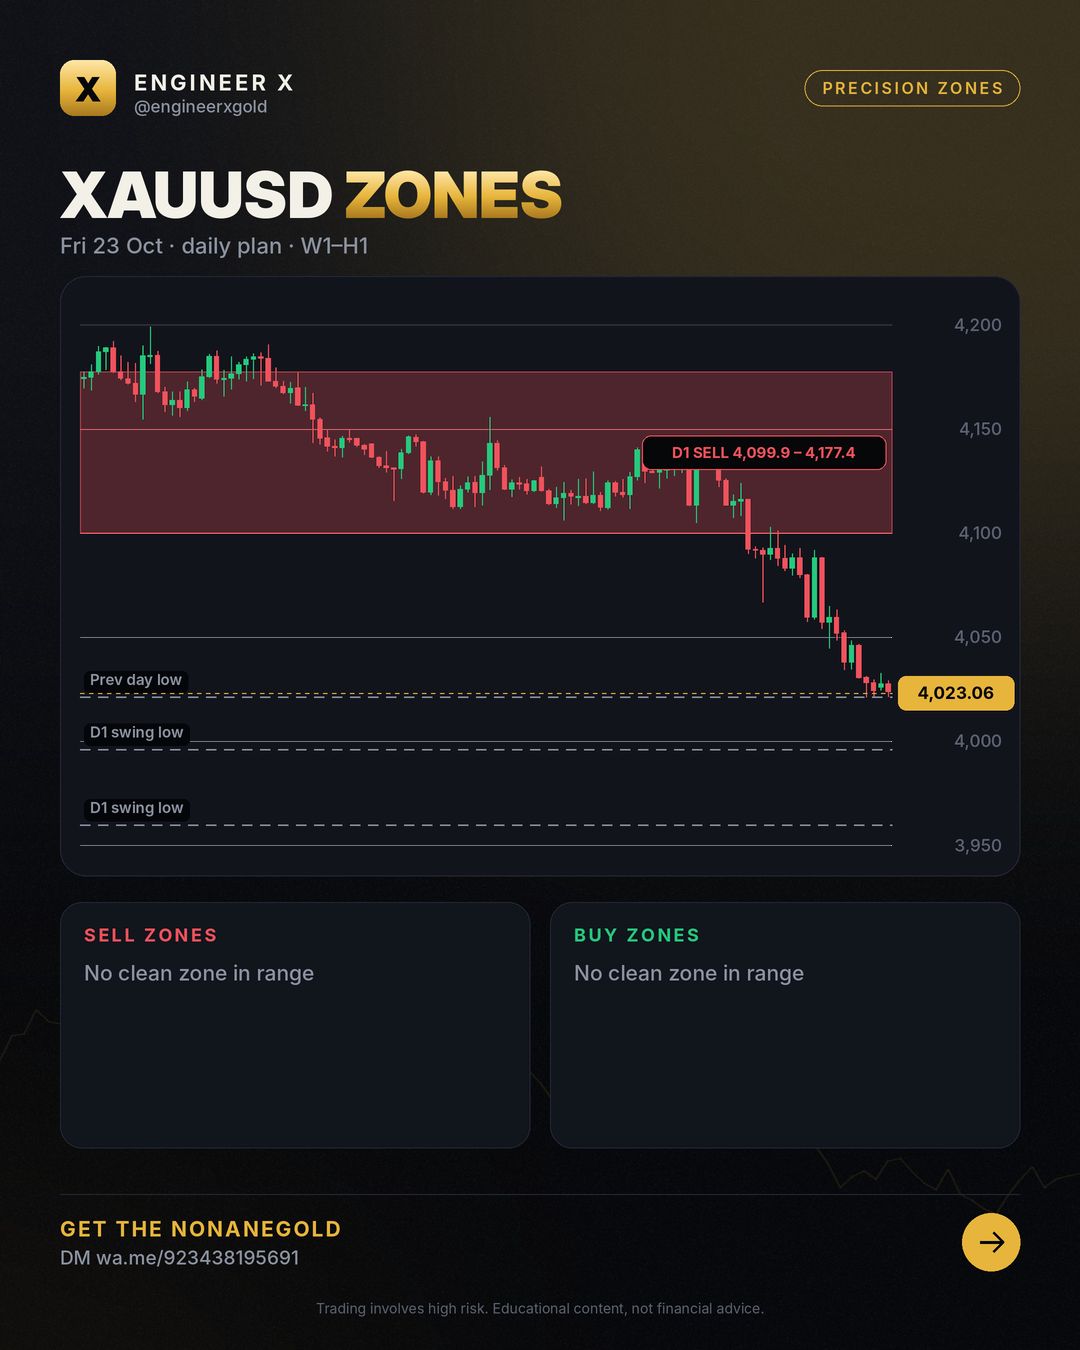
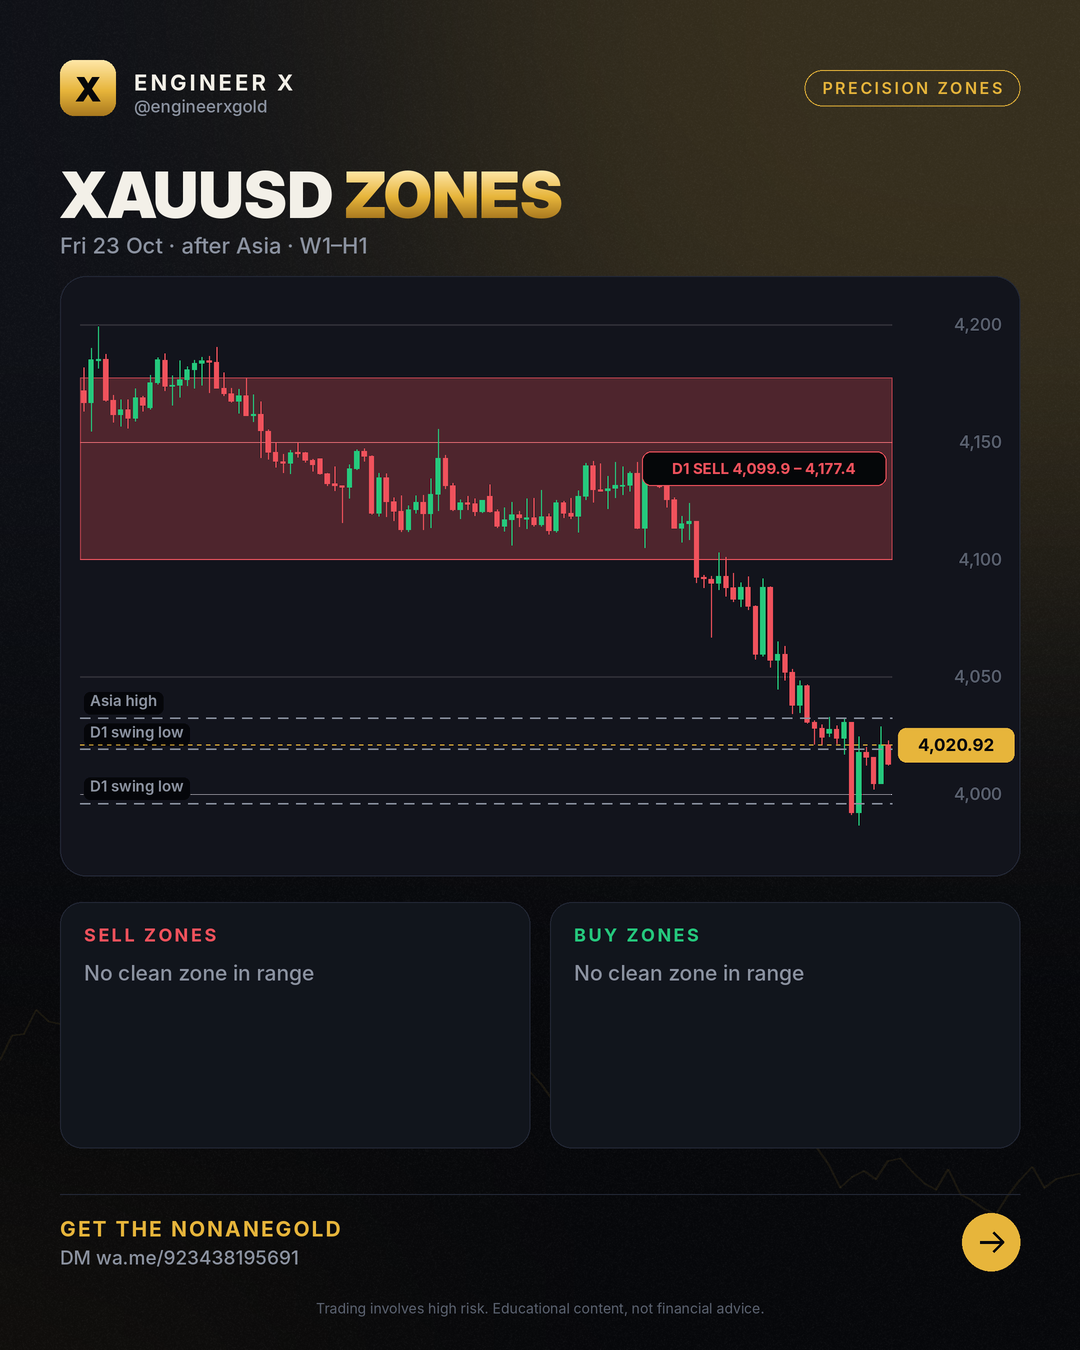
zones 2026-10-23 Fri 23 Oct · after Asia · W1–H1

diff --git a/zones/2026-10-23/index.html b/zones/2026-10-23/index.html
@@ -4,7 +4,7 @@
 <meta charset="utf-8">
 <meta name="viewport" content="width=device-width,initial-scale=1">
 <title>Gold Support Resistance – 23 Oct 2026 (W1–H1)</title>
-<meta name="description" content="XAUUSD buy and sell zones for 2026-10-23: tested W1, D1, H4 and H1 zones with invalidation levels, updated after the Asian, London and New York sessions. Price 4,023.06.">
+<meta name="description" content="XAUUSD buy and sell zones for 2026-10-23: tested W1, D1, H4 and H1 zones with invalidation levels, updated after the Asian, London and New York sessions. Price 4,020.92.">
 <meta name="robots" content="index,follow,max-image-preview:large,max-snippet:-1,max-video-preview:-1">
 <meta name="author" content="Engr. M Ahmad Mehmood">
 <link rel="canonical" href="https://engineerxgold.github.io/zones/2026-10-23/">
@@ -12,7 +12,7 @@
 <link rel="apple-touch-icon" href="../../img/logo.png">
 <meta property="og:site_name" content="Engineer X">
 <meta property="og:title" content="Gold Support Resistance – 23 Oct 2026 (W1–H1)">
-<meta property="og:description" content="XAUUSD buy and sell zones for 2026-10-23: tested W1, D1, H4 and H1 zones with invalidation levels, updated after the Asian, London and New York sessions. Price 4,023.06.">
+<meta property="og:description" content="XAUUSD buy and sell zones for 2026-10-23: tested W1, D1, H4 and H1 zones with invalidation levels, updated after the Asian, London and New York sessions. Price 4,020.92.">
 <meta property="og:type" content="article">
 <meta property="og:url" content="https://engineerxgold.github.io/zones/2026-10-23/">
 <meta property="og:image" content="https://engineerxgold.github.io/zones/img/2026-10-23.png">
@@ -22,7 +22,7 @@
 <meta property="og:locale" content="en_US">
 <meta name="twitter:card" content="summary_large_image">
 <meta name="twitter:title" content="Gold Support Resistance – 23 Oct 2026 (W1–H1)">
-<meta name="twitter:description" content="XAUUSD buy and sell zones for 2026-10-23: tested W1, D1, H4 and H1 zones with invalidation levels, updated after the Asian, London and New York sessions. Price 4,023.06.">
+<meta name="twitter:description" content="XAUUSD buy and sell zones for 2026-10-23: tested W1, D1, H4 and H1 zones with invalidation levels, updated after the Asian, London and New York sessions. Price 4,020.92.">
 <meta name="twitter:image" content="https://engineerxgold.github.io/zones/img/2026-10-23.png">
 <meta name="twitter:image:alt" content="Gold Support Resistance – 23 Oct 2026 (W1–H1)">
 
@@ -32,7 +32,7 @@
 <link rel="preconnect" href="https://fonts.googleapis.com">
 <link rel="preconnect" href="https://fonts.gstatic.com" crossorigin>
 <link href="https://fonts.googleapis.com/css2?family=Inter:wght@400;500;600;800;900&display=swap" rel="stylesheet">
-<script type="application/ld+json">{"@context": "https://schema.org", "@type": "Organization", "@id": "https://engineerxgold.github.io/#organization", "name": "Engineer X", "url": "https://engineerxgold.github.io/", "logo": {"@type": "ImageObject", "url": "https://engineerxgold.github.io/img/logo.png", "width": 512, "height": 512}, "sameAs": ["https://t.me/engineerxgold"]}</script><script type="application/ld+json">{"@context": "https://schema.org", "@type": "Article", "headline": "Gold Support Resistance – 23 Oct 2026 (W1–H1)", "datePublished": "2026-10-23T08:00:00+05:00", "dateModified": "2026-10-23T05:04:54+05:00", "author": {"@type": "Person", "@id": "https://engineerxgold.github.io/about/#author", "name": "Engr. M Ahmad Mehmood", "url": "https://engineerxgold.github.io/about/", "jobTitle": "MQL5 Expert Advisor developer and gold market analyst", "worksFor": {"@id": "https://engineerxgold.github.io/#organization"}}, "publisher": {"@id": "https://engineerxgold.github.io/#organization"}, "image": "https://engineerxgold.github.io/zones/img/2026-10-23.png", "mainEntityOfPage": "https://engineerxgold.github.io/zones/2026-10-23/"}</script>
+<script type="application/ld+json">{"@context": "https://schema.org", "@type": "Organization", "@id": "https://engineerxgold.github.io/#organization", "name": "Engineer X", "url": "https://engineerxgold.github.io/", "logo": {"@type": "ImageObject", "url": "https://engineerxgold.github.io/img/logo.png", "width": 512, "height": 512}, "sameAs": ["https://t.me/engineerxgold"]}</script><script type="application/ld+json">{"@context": "https://schema.org", "@type": "Article", "headline": "Gold Support Resistance – 23 Oct 2026 (W1–H1)", "datePublished": "2026-10-23T08:00:00+05:00", "dateModified": "2026-10-23T12:34:17+05:00", "author": {"@type": "Person", "@id": "https://engineerxgold.github.io/about/#author", "name": "Engr. M Ahmad Mehmood", "url": "https://engineerxgold.github.io/about/", "jobTitle": "MQL5 Expert Advisor developer and gold market analyst", "worksFor": {"@id": "https://engineerxgold.github.io/#organization"}}, "publisher": {"@id": "https://engineerxgold.github.io/#organization"}, "image": "https://engineerxgold.github.io/zones/img/2026-10-23.png", "mainEntityOfPage": "https://engineerxgold.github.io/zones/2026-10-23/"}</script>
 
 <style>
 :root{--gold:#E7B53B;--gold-hi:#FFE7A8;--bg:#07080B;--bg2:#0E1016;--panel:#12151D;--line:#232836;--green:#25C97D;--red:#F0525C;--text:#F3F0E8;--muted:#8C93A1}
@@ -101,7 +101,7 @@ footer .fl a{color:var(--muted);margin-right:16px}
 <div class="wrap">
 <nav><a class="logo" href="../../"><b>X</b>Engineer X</a>
 <div class="links"><a href="../../zones/">Daily Zones</a><a href="../../blog/">Learn</a><a href="../../ea/">Gold EA</a><a href="../../about/">About</a><a class="cta" href="https://wa.me/923438195691">Get the EA</a></div></nav>
-<article><p class="crumbs"><a href="../../">Home</a> › <a href="../">Zones</a> › 2026-10-23</p><h1>Gold Support Resistance – 23 Oct 2026 (W1–H1)</h1><p class="byline">Fri 23 Oct · daily plan · W1–H1 · by Engr. M Ahmad Mehmood</p><img src="../img/2026-10-23.png" alt="XAUUSD zone map 2026-10-23" width="1080" height="1350" loading="eager"><h2>Zones</h2><div style="overflow-x:auto"><table style="width:100%;border-collapse:collapse;font-size:15px"><tr><th align=left>Zone</th><th align=left>Price band</th><th>Grade</th><th align=left>Invalid</th><th align=left>Why</th></tr><tr><td>D1 sell</td><td><b>4,099.92 – 4,177.43</b></td><td>B</td><td>above 4,181.19</td><td>D1 order block 4099.92–4177.43: last up candle before the move, traded through (S15); entry level 4099.92</td></tr></table></div><h2>How to read this map</h2><p>Bands are where price is expected to react; they are not entries. Trading beyond the invalidation price ends the zone; each zone counts once (first touch). Highs and lows listed as liquidity are targets: on 10 years of gold price ran through them more often than through random levels.</p><div class="ctabox"><h3>🤖 Trade the zones with the NonaneGold</h3><p>Free signals group access + setup help Message us and we will help you set it up.</p><div class="btns"><a class="btn gold" href="https://wa.me/923438195691">Get the EA on Telegram</a><a class="btn ghost" href="../../ea/">About the EA</a></div></div></article>
+<article><p class="crumbs"><a href="../../">Home</a> › <a href="../">Zones</a> › 2026-10-23</p><h1>Gold Support Resistance – 23 Oct 2026 (W1–H1)</h1><p class="byline">Fri 23 Oct · after Asia · W1–H1 · by Engr. M Ahmad Mehmood</p><img src="../img/2026-10-23.png" alt="XAUUSD zone map 2026-10-23" width="1080" height="1350" loading="eager"><h2>Zones</h2><div style="overflow-x:auto"><table style="width:100%;border-collapse:collapse;font-size:15px"><tr><th align=left>Zone</th><th align=left>Price band</th><th>Grade</th><th align=left>Invalid</th><th align=left>Why</th></tr><tr><td>D1 sell</td><td><b>4,099.92 – 4,177.43</b></td><td>B</td><td>above 4,181.74</td><td>D1 order block 4099.92–4177.43: last up candle before the move, traded through (S15); entry level 4099.92</td></tr></table></div><h2>How to read this map</h2><p>Bands are where price is expected to react; they are not entries. Trading beyond the invalidation price ends the zone; each zone counts once (first touch). Highs and lows listed as liquidity are targets: on 10 years of gold price ran through them more often than through random levels.</p><div class="ctabox"><h3>🤖 Trade the zones with the NonaneGold</h3><p>Free signals group access + setup help Message us and we will help you set it up.</p><div class="btns"><a class="btn gold" href="https://wa.me/923438195691">Get the EA on Telegram</a><a class="btn ghost" href="../../ea/">About the EA</a></div></div></article>
 <footer>
 <div class="warn"><b>Risk warning:</b> Trading gold, forex and CFDs carries a high risk of losing money and is not suitable for everyone. Past results do not guarantee future results. Everything on this site is educational and not financial advice. We are an introducing partner of our broker and may earn a commission on accounts opened through our link.</div>
 <p class="fl" style="margin-top:18px"><a href="../../about/">About &amp; methodology</a><a href="../../privacy.html">Privacy</a><a href="../../terms.html">Terms &amp; risk disclosure</a><a href="../../feed.xml">RSS</a><a href="https://t.me/engineerxgold">Telegram</a></p>

diff --git a/zones/index.html b/zones/index.html
@@ -4,7 +4,7 @@
 <meta charset="utf-8">
 <meta name="viewport" content="width=device-width,initial-scale=1">
 <title>XAUUSD Zones Today – Buy &amp; Sell Zones (H4, H1) | Engineer X</title>
-<meta name="description" content="XAUUSD buy and sell zones for 2026-10-23: tested W1, D1, H4 and H1 zones with invalidation levels, updated after the Asian, London and New York sessions. Price 4,023.06.">
+<meta name="description" content="XAUUSD buy and sell zones for 2026-10-23: tested W1, D1, H4 and H1 zones with invalidation levels, updated after the Asian, London and New York sessions. Price 4,020.92.">
 <meta name="robots" content="index,follow,max-image-preview:large,max-snippet:-1,max-video-preview:-1">
 <meta name="author" content="Engr. M Ahmad Mehmood">
 <link rel="canonical" href="https://engineerxgold.github.io/zones/">
@@ -12,7 +12,7 @@
 <link rel="apple-touch-icon" href="../img/logo.png">
 <meta property="og:site_name" content="Engineer X">
 <meta property="og:title" content="XAUUSD Zones Today – Buy &amp; Sell Zones (H4, H1) | Engineer X">
-<meta property="og:description" content="XAUUSD buy and sell zones for 2026-10-23: tested W1, D1, H4 and H1 zones with invalidation levels, updated after the Asian, London and New York sessions. Price 4,023.06.">
+<meta property="og:description" content="XAUUSD buy and sell zones for 2026-10-23: tested W1, D1, H4 and H1 zones with invalidation levels, updated after the Asian, London and New York sessions. Price 4,020.92.">
 <meta property="og:type" content="website">
 <meta property="og:url" content="https://engineerxgold.github.io/zones/">
 <meta property="og:image" content="https://engineerxgold.github.io/zones/img/2026-10-23.png">
@@ -22,7 +22,7 @@
 <meta property="og:locale" content="en_US">
 <meta name="twitter:card" content="summary_large_image">
 <meta name="twitter:title" content="XAUUSD Zones Today – Buy &amp; Sell Zones (H4, H1) | Engineer X">
-<meta name="twitter:description" content="XAUUSD buy and sell zones for 2026-10-23: tested W1, D1, H4 and H1 zones with invalidation levels, updated after the Asian, London and New York sessions. Price 4,023.06.">
+<meta name="twitter:description" content="XAUUSD buy and sell zones for 2026-10-23: tested W1, D1, H4 and H1 zones with invalidation levels, updated after the Asian, London and New York sessions. Price 4,020.92.">
 <meta name="twitter:image" content="https://engineerxgold.github.io/zones/img/2026-10-23.png">
 <meta name="twitter:image:alt" content="XAUUSD Zones Today – Buy &amp; Sell Zones (H4, H1) | Engineer X">
 
@@ -101,7 +101,7 @@ footer .fl a{color:var(--muted);margin-right:16px}
 <div class="wrap">
 <nav><a class="logo" href="../"><b>X</b>Engineer X</a>
 <div class="links"><a href="../zones/">Daily Zones</a><a href="../blog/">Learn</a><a href="../ea/">Gold EA</a><a href="../about/">About</a><a class="cta" href="https://wa.me/923438195691">Get the EA</a></div></nav>
-<section class="hero"><span class="chip">Updated Fri 23 Oct · daily plan · W1–H1</span><h1>XAUUSD <span class="gold">precision zones</span></h1><p>XAUUSD buy and sell zones for 2026-10-23: tested W1, D1, H4 and H1 zones with invalidation levels, updated after the Asian, London and New York sessions. Price 4,023.06.</p></section><img src="img/2026-10-23.png" alt="Latest XAUUSD zone map" width="1080" height="1350"><section><h2>Current zones</h2><div style="overflow-x:auto"><table style="width:100%;border-collapse:collapse;font-size:15px"><tr><th align=left>Zone</th><th align=left>Price band</th><th>Grade</th><th align=left>Invalid</th><th align=left>Why</th></tr><tr><td>D1 sell</td><td><b>4,099.92 – 4,177.43</b></td><td>B</td><td>above 4,181.19</td><td>D1 order block 4099.92–4177.43: last up candle before the move, traded through (S15); entry level 4099.92</td></tr></table></div></section><section><h2>Honest scorecard</h2><div class="grid"><div class="card"><div class="n">147</div><p>zones published (30 days)</p></div><div class="card"><div class="n">84</div><p>held (moved 1 hourly ATR away)</p></div><div class="card"><div class="n">7</div><p>broke (traded beyond the invalidation)</p></div><div class="card"><div class="n">92%</div><p>hold rate of decided zones</p></div></div></section><div class="ctabox"><h3>🤖 Trade the zones with the NonaneGold</h3><p>Free signals group access + setup help Message us and we will help you set it up.</p><div class="btns"><a class="btn gold" href="https://wa.me/923438195691">Get the EA on Telegram</a><a class="btn ghost" href="../ea/">About the EA</a></div></div><section><h2>Archive</h2><div class="grid posts"><a class="card" href="2026-10-23/"><span class="date">2026-10-23</span><h3>XAUUSD zones 2026-10-23</h3></a><a class="card" href="2026-10-22/"><span class="date">2026-10-22</span><h3>XAUUSD zones 2026-10-22</h3></a><a class="card" href="2026-10-21/"><span class="date">2026-10-21</span><h3>XAUUSD zones 2026-10-21</h3></a><a class="card" href="2026-10-20/"><span class="date">2026-10-20</span><h3>XAUUSD zones 2026-10-20</h3></a><a class="card" href="2026-10-19/"><span class="date">2026-10-19</span><h3>XAUUSD zones 2026-10-19</h3></a><a class="card" href="2026-10-16/"><span class="date">2026-10-16</span><h3>XAUUSD zones 2026-10-16</h3></a><a class="card" href="2026-10-15/"><span class="date">2026-10-15</span><h3>XAUUSD zones 2026-10-15</h3></a><a class="card" href="2026-10-14/"><span class="date">2026-10-14</span><h3>XAUUSD zones 2026-10-14</h3></a><a class="card" href="2026-10-13/"><span class="date">2026-10-13</span><h3>XAUUSD zones 2026-10-13</h3></a></div></section>
+<section class="hero"><span class="chip">Updated Fri 23 Oct · after Asia · W1–H1</span><h1>XAUUSD <span class="gold">precision zones</span></h1><p>XAUUSD buy and sell zones for 2026-10-23: tested W1, D1, H4 and H1 zones with invalidation levels, updated after the Asian, London and New York sessions. Price 4,020.92.</p></section><img src="img/2026-10-23.png" alt="Latest XAUUSD zone map" width="1080" height="1350"><section><h2>Current zones</h2><div style="overflow-x:auto"><table style="width:100%;border-collapse:collapse;font-size:15px"><tr><th align=left>Zone</th><th align=left>Price band</th><th>Grade</th><th align=left>Invalid</th><th align=left>Why</th></tr><tr><td>D1 sell</td><td><b>4,099.92 – 4,177.43</b></td><td>B</td><td>above 4,181.74</td><td>D1 order block 4099.92–4177.43: last up candle before the move, traded through (S15); entry level 4099.92</td></tr></table></div></section><section><h2>Honest scorecard</h2><div class="grid"><div class="card"><div class="n">148</div><p>zones published (30 days)</p></div><div class="card"><div class="n">84</div><p>held (moved 1 hourly ATR away)</p></div><div class="card"><div class="n">7</div><p>broke (traded beyond the invalidation)</p></div><div class="card"><div class="n">92%</div><p>hold rate of decided zones</p></div></div></section><div class="ctabox"><h3>🤖 Trade the zones with the NonaneGold</h3><p>Free signals group access + setup help Message us and we will help you set it up.</p><div class="btns"><a class="btn gold" href="https://wa.me/923438195691">Get the EA on Telegram</a><a class="btn ghost" href="../ea/">About the EA</a></div></div><section><h2>Archive</h2><div class="grid posts"><a class="card" href="2026-10-23/"><span class="date">2026-10-23</span><h3>XAUUSD zones 2026-10-23</h3></a><a class="card" href="2026-10-22/"><span class="date">2026-10-22</span><h3>XAUUSD zones 2026-10-22</h3></a><a class="card" href="2026-10-21/"><span class="date">2026-10-21</span><h3>XAUUSD zones 2026-10-21</h3></a><a class="card" href="2026-10-20/"><span class="date">2026-10-20</span><h3>XAUUSD zones 2026-10-20</h3></a><a class="card" href="2026-10-19/"><span class="date">2026-10-19</span><h3>XAUUSD zones 2026-10-19</h3></a><a class="card" href="2026-10-16/"><span class="date">2026-10-16</span><h3>XAUUSD zones 2026-10-16</h3></a><a class="card" href="2026-10-15/"><span class="date">2026-10-15</span><h3>XAUUSD zones 2026-10-15</h3></a><a class="card" href="2026-10-14/"><span class="date">2026-10-14</span><h3>XAUUSD zones 2026-10-14</h3></a><a class="card" href="2026-10-13/"><span class="date">2026-10-13</span><h3>XAUUSD zones 2026-10-13</h3></a></div></section>
 <footer>
 <div class="warn"><b>Risk warning:</b> Trading gold, forex and CFDs carries a high risk of losing money and is not suitable for everyone. Past results do not guarantee future results. Everything on this site is educational and not financial advice. We are an introducing partner of our broker and may earn a commission on accounts opened through our link.</div>
 <p class="fl" style="margin-top:18px"><a href="../about/">About &amp; methodology</a><a href="../privacy.html">Privacy</a><a href="../terms.html">Terms &amp; risk disclosure</a><a href="../feed.xml">RSS</a><a href="https://t.me/engineerxgold">Telegram</a></p>

diff --git a/index.html b/index.html
@@ -101,7 +101,7 @@ footer .fl a{color:var(--muted);margin-right:16px}
 <div class="wrap">
 <nav><a class="logo" href="./"><b>X</b>Engineer X</a>
 <div class="links"><a href="./zones/">Daily Zones</a><a href="./blog/">Learn</a><a href="./ea/">Gold EA</a><a href="./about/">About</a><a class="cta" href="https://wa.me/923438195691">Get the EA</a></div></nav>
-<section class="hero"><span class="chip">XAUUSD · W1–H1 · every session</span><h1>Gold <span class="gold">precision zones</span>, updated after every session</h1><p>Tested buy and sell zones with clear invalidation, a scorecard of every result, and the NonaneGold for traders who want it automated.</p><div class="btns"><a class="btn gold" href="zones/">See today's zones</a><a class="btn ghost" href="https://wa.me/923438195691">Get the EA</a></div></section><section><h2>Latest map Fri 23 Oct · daily plan · W1–H1</h2><img src="zones/img/2026-10-23.png" alt="Latest XAUUSD zones" width="1080" height="1350"></section><div class="ctabox"><h3>🤖 Trade the zones with the NonaneGold</h3><p>Free signals group access + setup help Message us and we will help you set it up.</p><div class="btns"><a class="btn gold" href="https://wa.me/923438195691">Get the EA on Telegram</a><a class="btn ghost" href="ea/">About the EA</a></div></div><section><h2>Learn</h2><div class="grid posts"><a class="card" href="blog/gold-supply-and-demand-zones-h4-trend-map/"><span class="date">2026-10-23</span><h3>Gold Supply and Demand Zones: H4 Trend Map</h3></a><a class="card" href="blog/gold-forecast-critical-h4-bearish-zones-liquidity/"><span class="date">2026-10-21</span><h3>Gold Forecast: Critical H4 Bearish Zones &amp; Liquidity</h3></a><a class="card" href="blog/gold-supply-and-demand-zones-h4-w1-map-analysis/"><span class="date">2026-10-20</span><h3>Gold Supply and Demand Zones: H4 &amp; W1 Map Analysis</h3></a><a class="card" href="blog/gold-trading-reading-h4-trend-liquidity-zones/"><span class="date">2026-10-19</span><h3>Gold Trading: Reading H4 Trend &amp; Liquidity Zones</h3></a><a class="card" href="blog/gold-support-resistance-live-technical-map-zones/"><span class="date">2026-10-18</span><h3>Gold Support Resistance: Live Technical Map &amp; Zones</h3></a><a class="card" href="blog/gold-supply-and-demand-zones-live-trading-map-guide/"><span class="date">2026-10-17</span><h3>Gold Supply and Demand Zones: Live Trading Map &amp; Guide</h3></a></div></section><section><h2>FAQ</h2><details><summary>What is a precision zone?</summary><p>A point of interest from a trading book (OTE 0.705, balanced price range, weekly close level, daily order block) that held better than random levels on 10 years of gold. Each zone has an invalidation price.</p></details><details><summary>How often are the zones updated?</summary><p>A daily plan at the Asian open, then after the Asian, London and New York sessions.</p></details><details><summary>Are these trade signals?</summary><p>No. Zones are areas to watch. Wait for your own confirmation and manage risk.</p></details><details><summary>How do I get the Gold EA?</summary><p>Message us on Telegram or WhatsApp; we answer and help with the setup.</p></details></section>
+<section class="hero"><span class="chip">XAUUSD · W1–H1 · every session</span><h1>Gold <span class="gold">precision zones</span>, updated after every session</h1><p>Tested buy and sell zones with clear invalidation, a scorecard of every result, and the NonaneGold for traders who want it automated.</p><div class="btns"><a class="btn gold" href="zones/">See today's zones</a><a class="btn ghost" href="https://wa.me/923438195691">Get the EA</a></div></section><section><h2>Latest map Fri 23 Oct · after Asia · W1–H1</h2><img src="zones/img/2026-10-23.png" alt="Latest XAUUSD zones" width="1080" height="1350"></section><div class="ctabox"><h3>🤖 Trade the zones with the NonaneGold</h3><p>Free signals group access + setup help Message us and we will help you set it up.</p><div class="btns"><a class="btn gold" href="https://wa.me/923438195691">Get the EA on Telegram</a><a class="btn ghost" href="ea/">About the EA</a></div></div><section><h2>Learn</h2><div class="grid posts"><a class="card" href="blog/gold-supply-and-demand-zones-h4-trend-map/"><span class="date">2026-10-23</span><h3>Gold Supply and Demand Zones: H4 Trend Map</h3></a><a class="card" href="blog/gold-forecast-critical-h4-bearish-zones-liquidity/"><span class="date">2026-10-21</span><h3>Gold Forecast: Critical H4 Bearish Zones &amp; Liquidity</h3></a><a class="card" href="blog/gold-supply-and-demand-zones-h4-w1-map-analysis/"><span class="date">2026-10-20</span><h3>Gold Supply and Demand Zones: H4 &amp; W1 Map Analysis</h3></a><a class="card" href="blog/gold-trading-reading-h4-trend-liquidity-zones/"><span class="date">2026-10-19</span><h3>Gold Trading: Reading H4 Trend &amp; Liquidity Zones</h3></a><a class="card" href="blog/gold-support-resistance-live-technical-map-zones/"><span class="date">2026-10-18</span><h3>Gold Support Resistance: Live Technical Map &amp; Zones</h3></a><a class="card" href="blog/gold-supply-and-demand-zones-live-trading-map-guide/"><span class="date">2026-10-17</span><h3>Gold Supply and Demand Zones: Live Trading Map &amp; Guide</h3></a></div></section><section><h2>FAQ</h2><details><summary>What is a precision zone?</summary><p>A point of interest from a trading book (OTE 0.705, balanced price range, weekly close level, daily order block) that held better than random levels on 10 years of gold. Each zone has an invalidation price.</p></details><details><summary>How often are the zones updated?</summary><p>A daily plan at the Asian open, then after the Asian, London and New York sessions.</p></details><details><summary>Are these trade signals?</summary><p>No. Zones are areas to watch. Wait for your own confirmation and manage risk.</p></details><details><summary>How do I get the Gold EA?</summary><p>Message us on Telegram or WhatsApp; we answer and help with the setup.</p></details></section>
 <footer>
 <div class="warn"><b>Risk warning:</b> Trading gold, forex and CFDs carries a high risk of losing money and is not suitable for everyone. Past results do not guarantee future results. Everything on this site is educational and not financial advice. We are an introducing partner of our broker and may earn a commission on accounts opened through our link.</div>
 <p class="fl" style="margin-top:18px"><a href="./about/">About &amp; methodology</a><a href="./privacy.html">Privacy</a><a href="./terms.html">Terms &amp; risk disclosure</a><a href="./feed.xml">RSS</a><a href="https://t.me/engineerxgold">Telegram</a></p>
